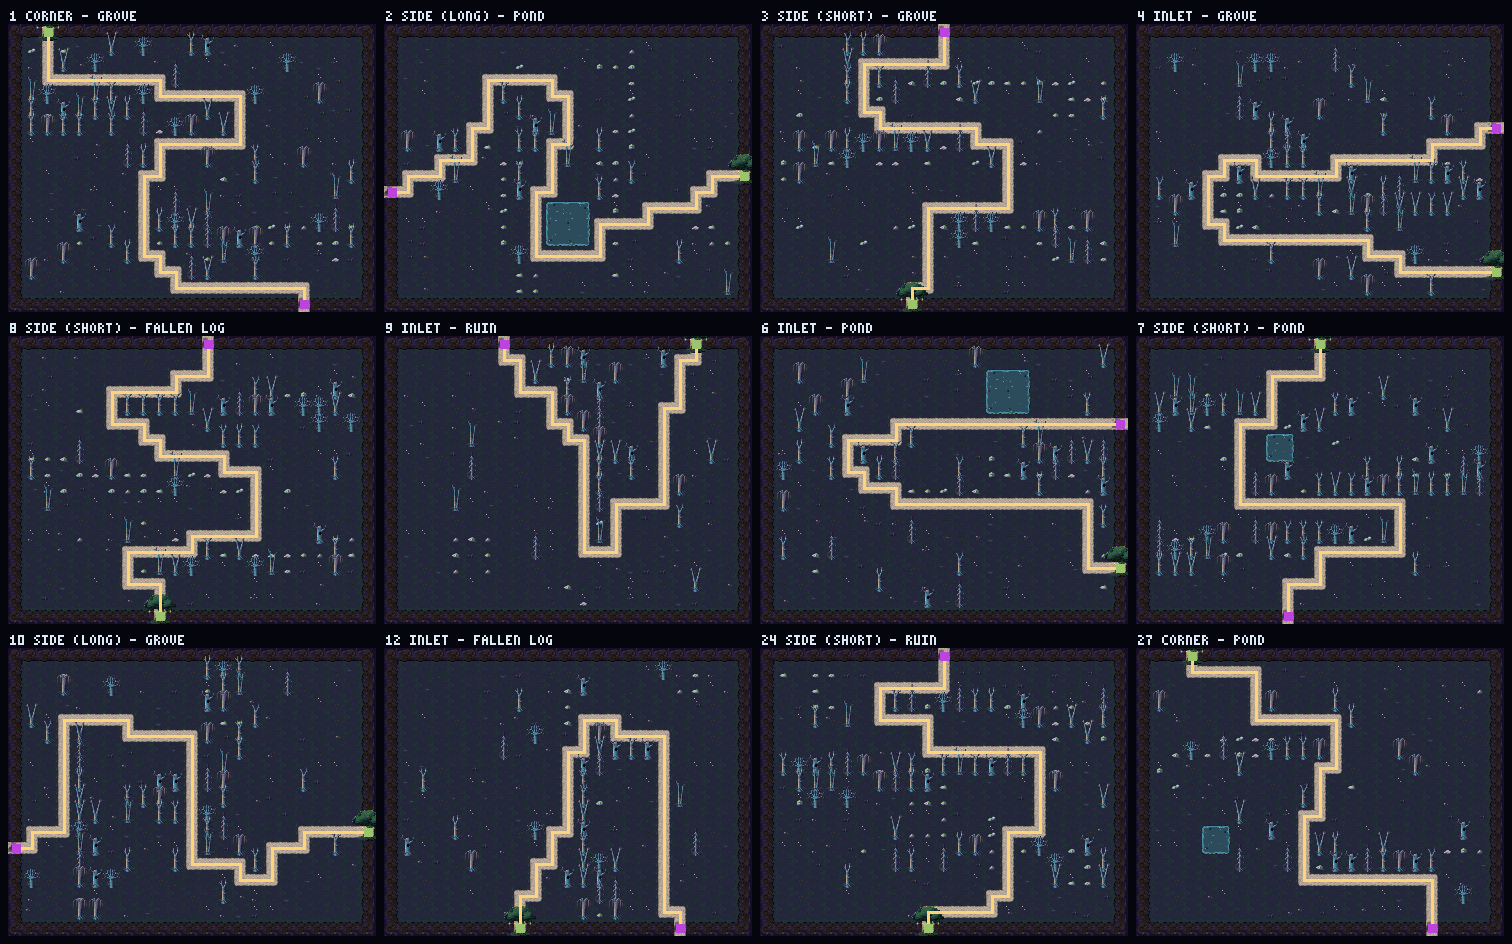
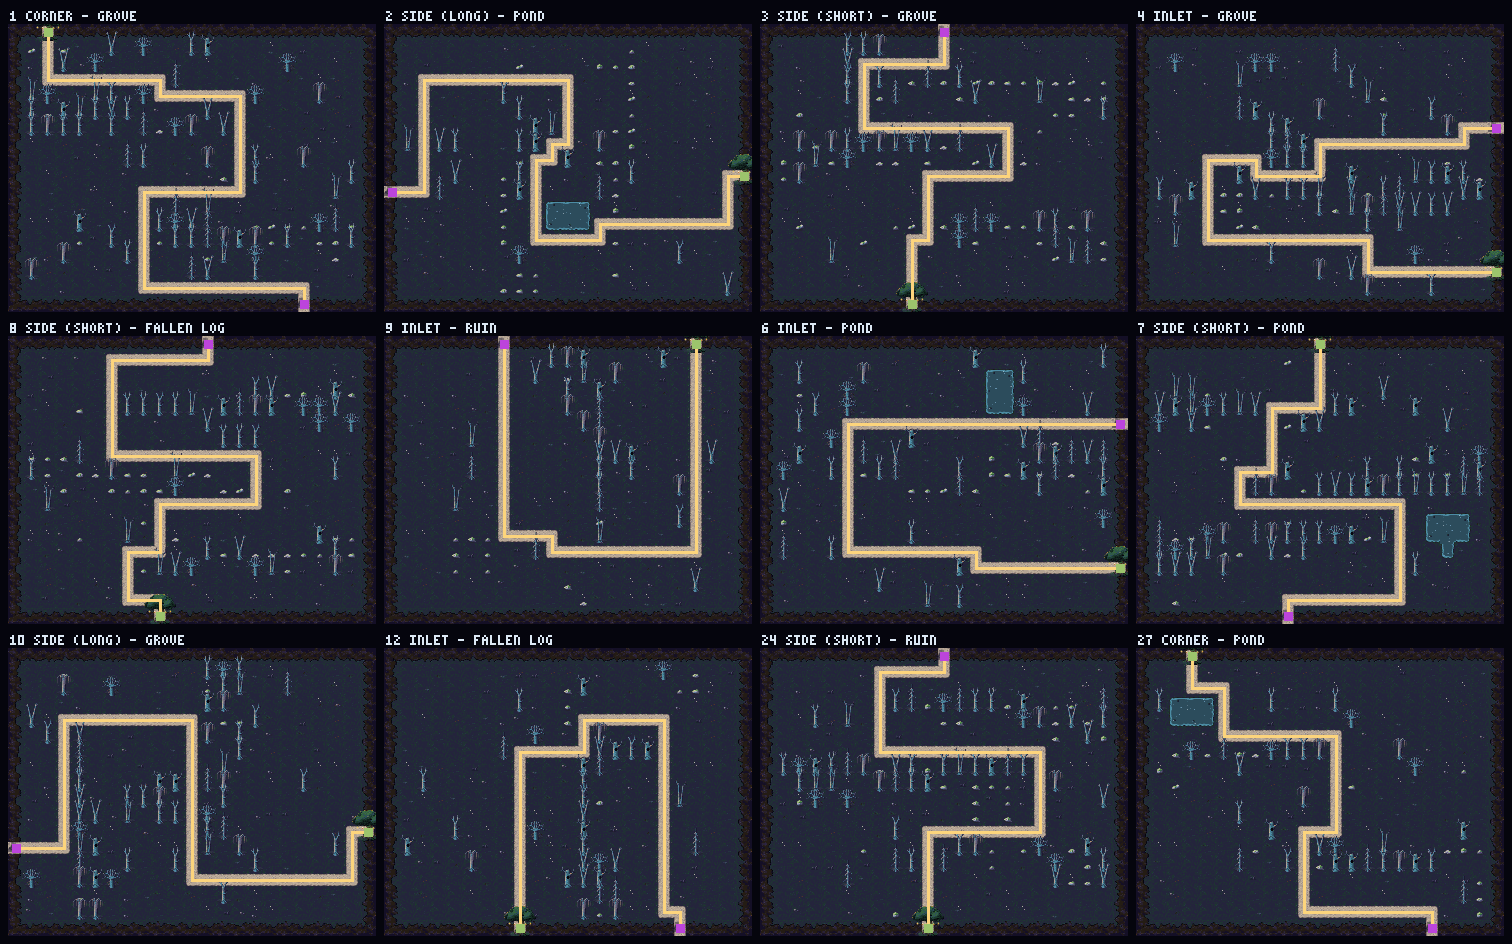
Organic ponds: dropped corners and L shapes with pond_inner corners
Half the ponds stay blobs (2x3, 3x2, 3x3, 2x2); the rest are a 3x3 with 1-2
corners dropped or an occasional L. pond_inner.png (Environment Assets,
e5f9191a) is EnvironmentTiles.POND_INNER (20); the generator lists each
inside corner (pond_corners: a cell whose two side neighbours are pond and
whose diagonal isn't) and MapGenerator draws one small sprite per corner,
sorted with the pond cell and drawn after it (a cell can need two), swapped
with the season. The preview renderers draw them; test_map_density reports
them. Layout sheet re-rendered on the same 12 seeds
(tools/previews/map_layouts.png). RunSaver VERSION 8.

diff --git a/Project_T/documentation/environment_assets.md b/Project_T/documentation/environment_assets.md
@@ -134,8 +134,9 @@ same way. Now each map rolls a layout, ridges that follow it, and one feature.
   shortest** (`MapGenerator._straightest_route`: per cell and heading, the fewest turns along shortest
   paths, handed to `PathGenerator.prefer_route` so the first draw and the sticky re-routes start from
   it; lengths unchanged). One-tile steps on the 12 sheet seeds 68 → 12 (turns 174 → 88), over 50 seeds
-  270 → 47 (700 → 364). **Ponds** are blobs (2×3, 3×2, 3×3, 2×2; `POND_SIZES`); dropped corners and L
-  shapes wait for inner-corner pond tiles (requested). **Ponds and ruins shape the opening**: their first
+  270 → 47 (700 → 364). **Ponds** are organic: half are blobs (2×3, 3×2, 3×3, 2×2; `POND_SIZES`), the rest
+  a 3×3 with 1–2 corners dropped or an occasional L; `pond_inner.png` covers their inside corners
+  (`pond_corners`, drawn as small sprites by `MapGenerator._draw_pond_corners`, season-swapped). **Ponds and ruins shape the opening**: their first
   `NEAR_ROUTE_TRIES` (50) placements must come within `NEAR_ROUTE` (2) cells of the route as the ridges
   leave it (`_provisional_route`), then anywhere as before; 8 of 8 test seeds each land near the route.
 - **Carving** keeps ridges and the feature whole if it can, breaks the feature next, and ridges only as
